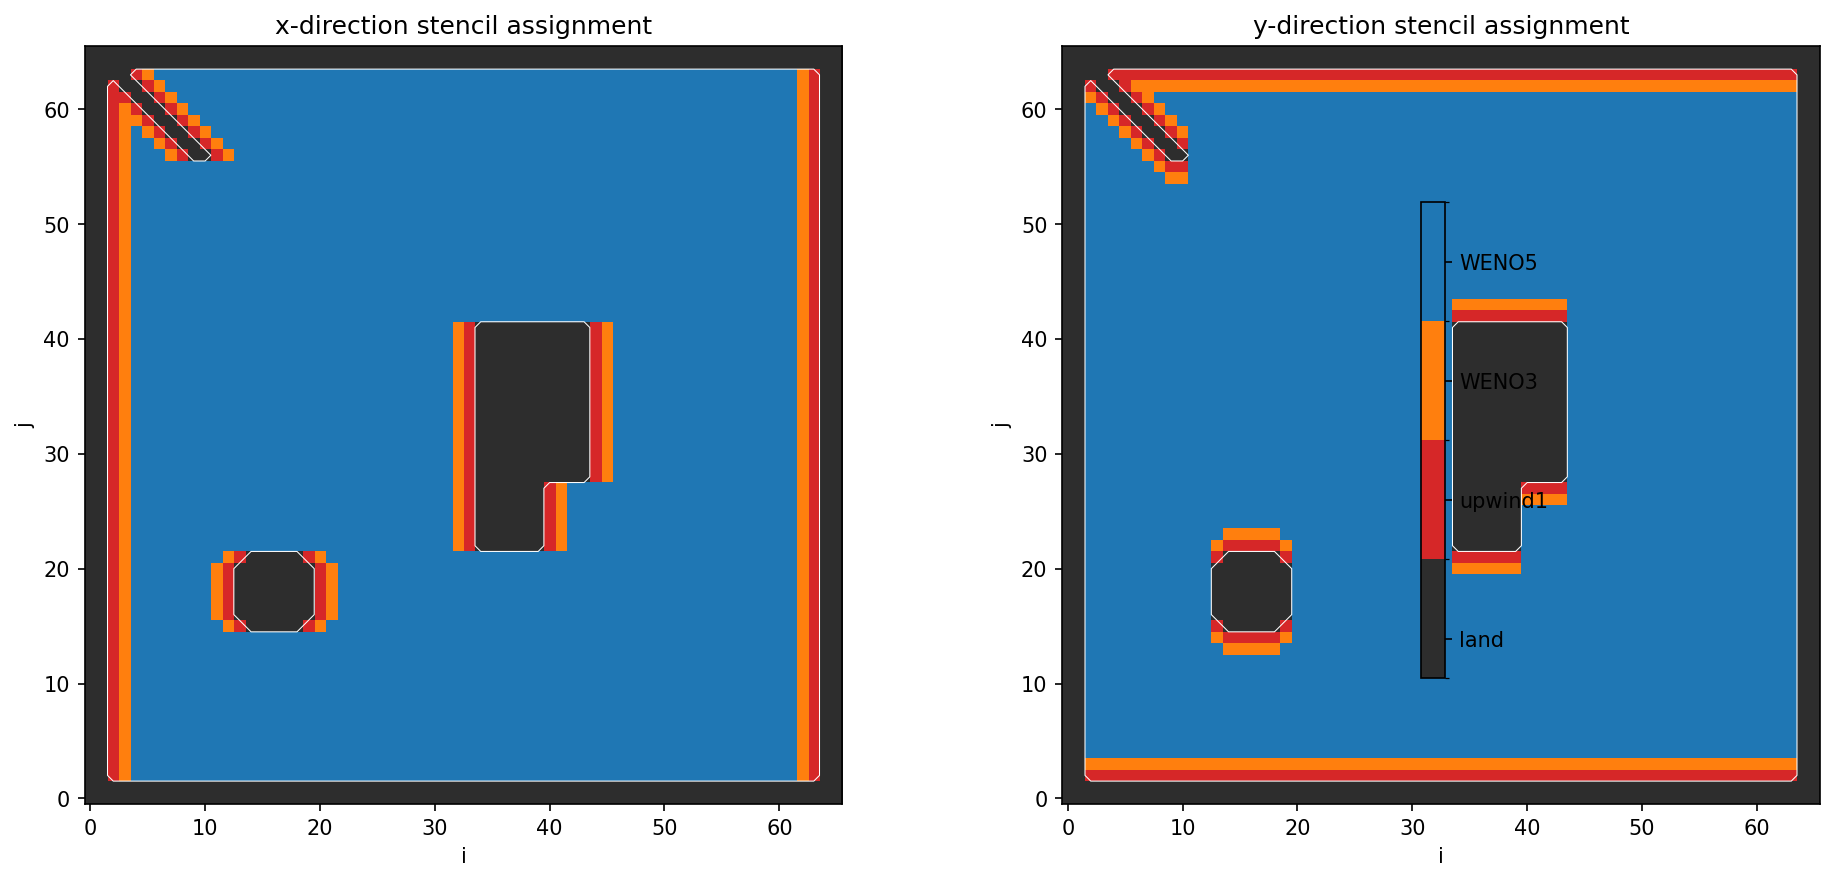
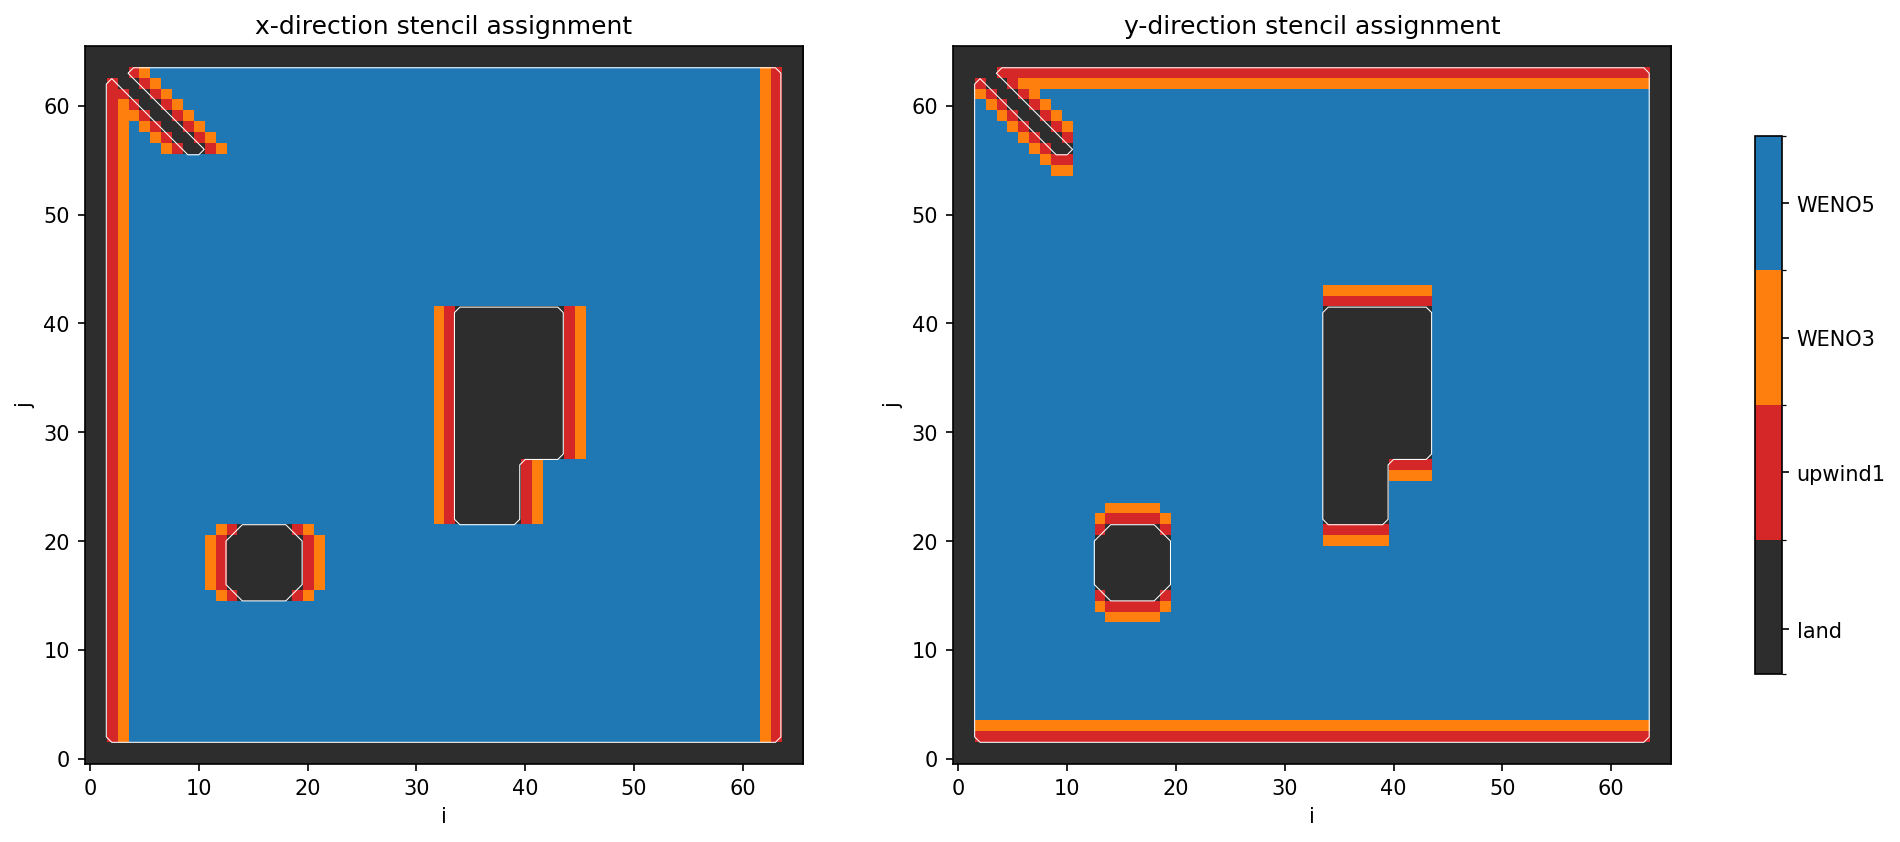
fix(docs): use constrained_layout for masked advection plots
Replace tight_layout with constrained_layout in all multi-panel figures
with shared colorbars to prevent colorbar overlapping the plot panels.

diff --git a/docs/notebooks/advection_2d_masked.py b/docs/notebooks/advection_2d_masked.py
@@ -237,7 +237,7 @@ def combine_adaptive(adaptive):
     return out
 
 
-fig, axes = plt.subplots(1, 2, figsize=(13, 5.5))
+fig, axes = plt.subplots(1, 2, figsize=(13, 5.5), constrained_layout=True)
 cmap = matplotlib.colors.ListedColormap(["#2d2d2d", "#d62728", "#ff7f0e", "#1f77b4"])
 bounds = [-0.5, 1, 3, 5, 7]
 norm = matplotlib.colors.BoundaryNorm(bounds, cmap.N)
@@ -255,7 +255,6 @@ for ax, adaptive, title in [
 
 cbar = fig.colorbar(im, ax=axes, shrink=0.75, ticks=[0, 2, 4, 6])
 cbar.ax.set_yticklabels(["land", "upwind1", "WENO3", "WENO5"])
-fig.tight_layout()
 fig.savefig(IMG_DIR / "adaptive_stencils.png", dpi=150, bbox_inches="tight")
 
 # %% [markdown]
@@ -362,7 +361,7 @@ for name, cfg in experiments.items():
 # ### Side-by-side comparison
 
 # %%
-fig, axes = plt.subplots(1, 3, figsize=(15, 4.5), sharey=True)
+fig, axes = plt.subplots(1, 3, figsize=(15, 4.5), sharey=True, constrained_layout=True)
 
 for ax, (name, data) in zip(axes, results.items(), strict=False):
     im = ax.imshow(
@@ -379,7 +378,6 @@ for ax, (name, data) in zip(axes, results.items(), strict=False):
 
 axes[0].set_ylabel("j")
 fig.colorbar(im, ax=axes, shrink=0.85, label="q")
-fig.tight_layout()
 fig.savefig(IMG_DIR / "comparison.png", dpi=150, bbox_inches="tight")
 
 # %% [markdown]
@@ -470,7 +468,7 @@ fig.savefig(IMG_DIR / "comparison.png", dpi=150, bbox_inches="tight")
 # Let's zoom in on the C-island channel to see the cascade close up.
 
 # %%
-fig, axes = plt.subplots(1, 3, figsize=(14, 4))
+fig, axes = plt.subplots(1, 3, figsize=(14, 4), constrained_layout=True)
 
 # Zoom region around the C-island channel
 r_slice = slice(18, 46)
@@ -506,8 +504,7 @@ fig.colorbar(im, ax=axes[2], shrink=0.85)
 for ax in axes:
     ax.set_xlabel("i (zoomed)")
 axes[0].set_ylabel("j (zoomed)")
-fig.suptitle("Zoom: C-Island Channel", fontsize=13, y=1.02)
-fig.tight_layout()
+fig.suptitle("Zoom: C-Island Channel", fontsize=13)
 fig.savefig(IMG_DIR / "channel_zoom.png", dpi=150, bbox_inches="tight")
 
 # %% [markdown]
